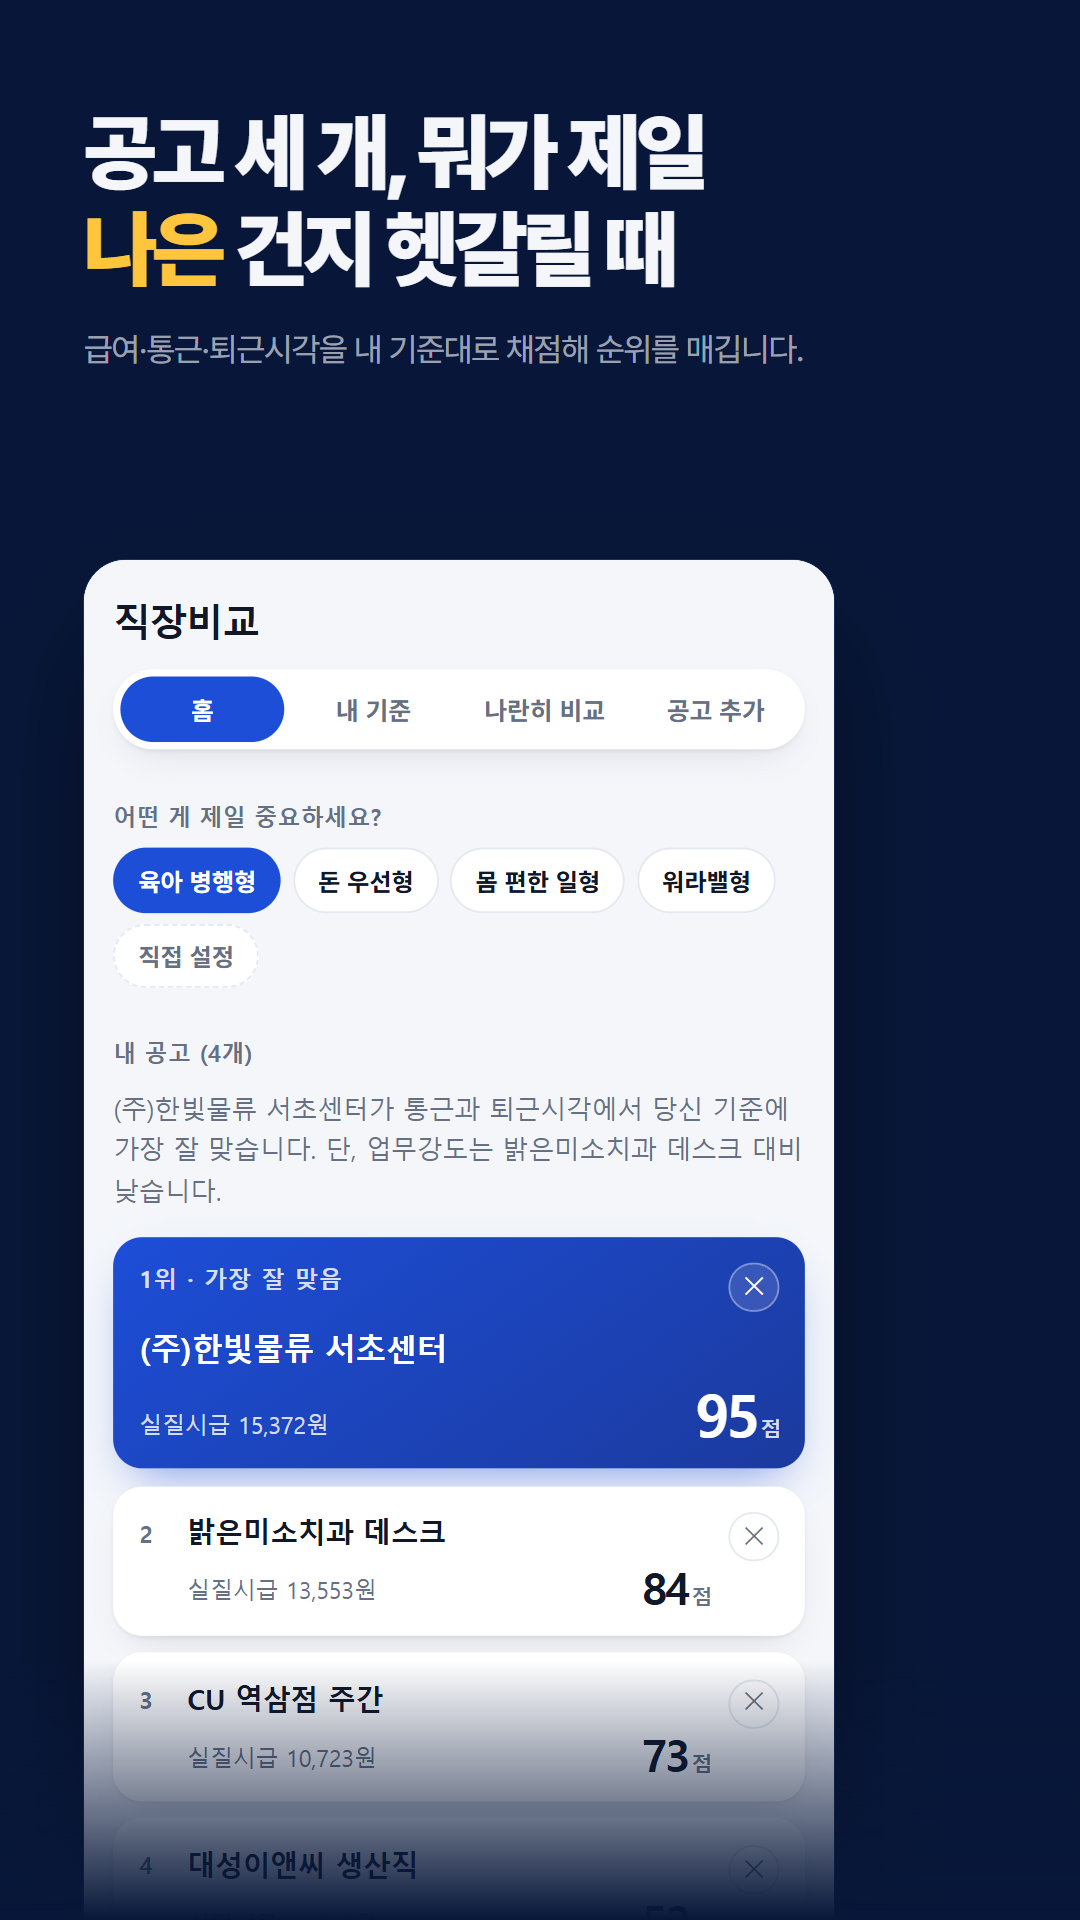
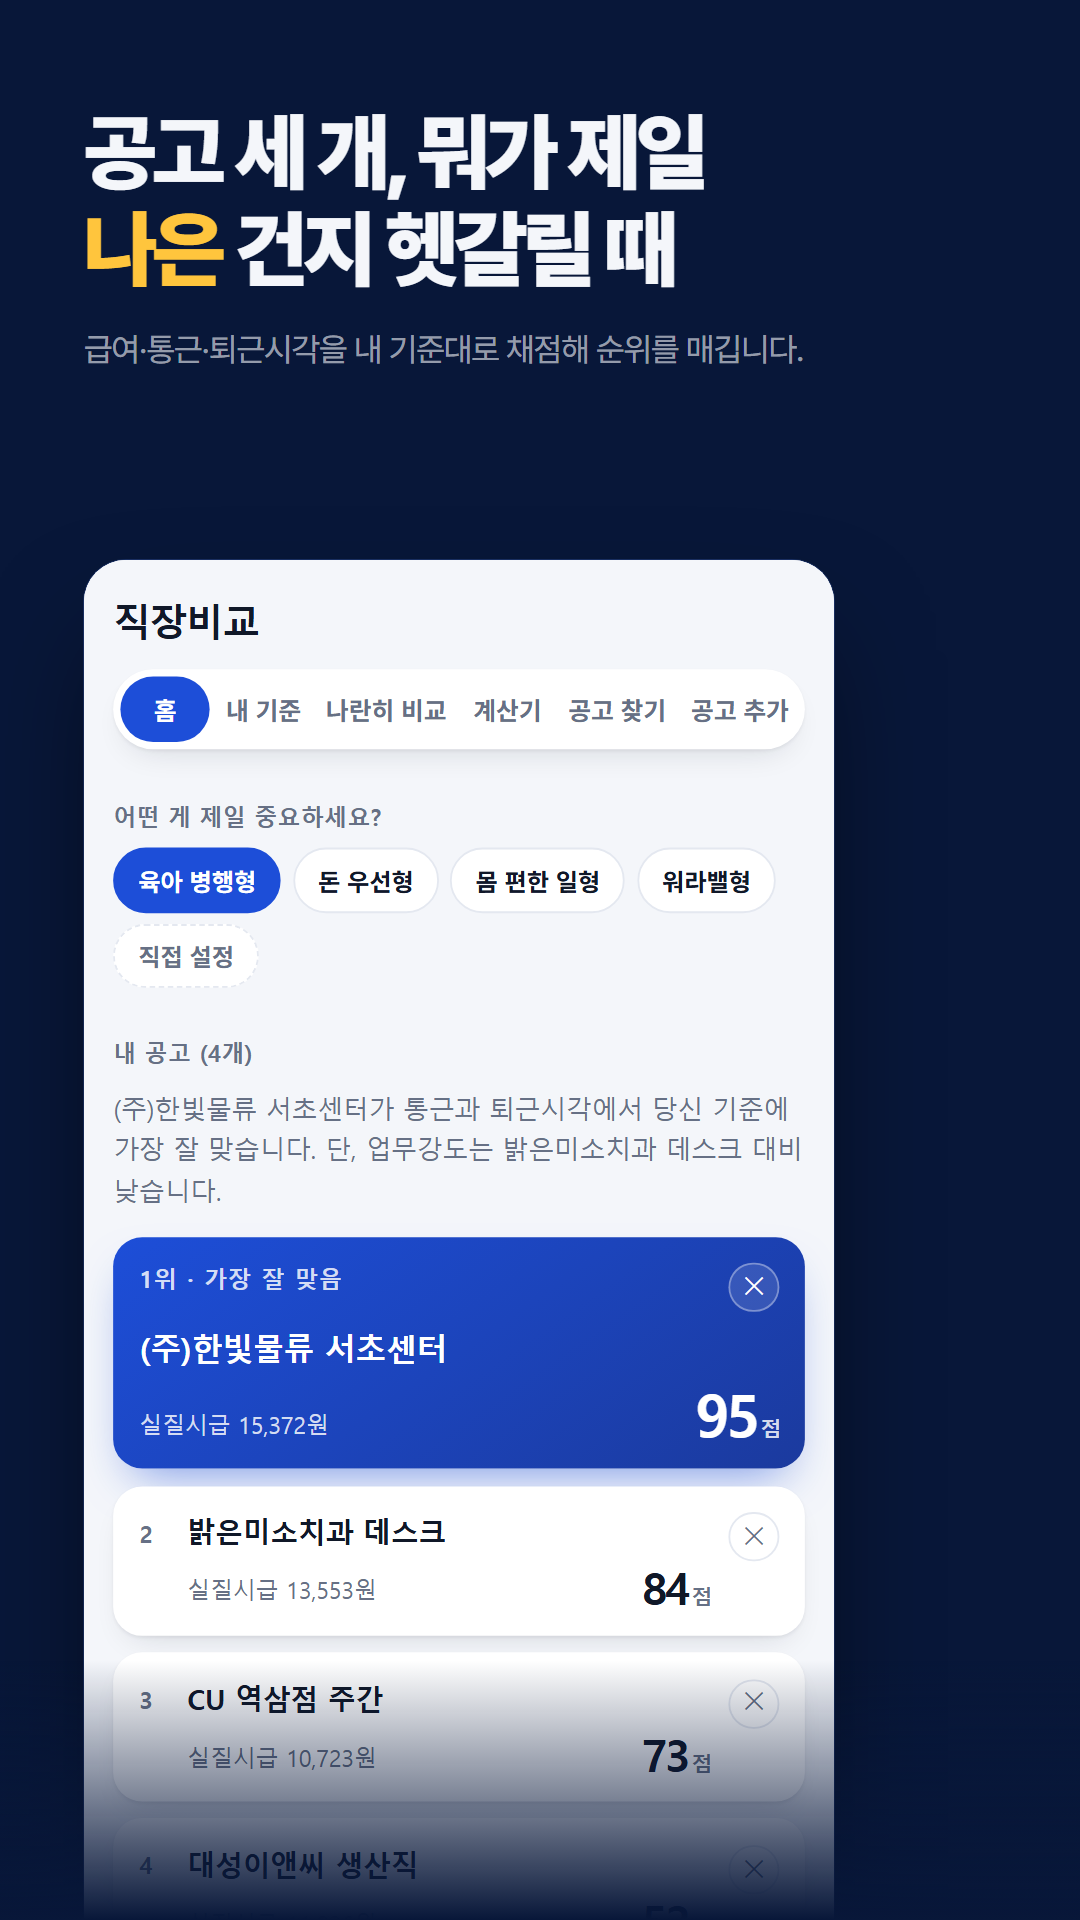
실질시급에 출퇴근 시간을 넣을지 사용자가 고르게
출퇴근 시간을 일한 시간으로 치는 건 이 앱의 관점일 뿐이라, 쓰는 사람이 끌 수 있어야 한다.
'내 기준' 화면에 체크박스 추가(기본 켜짐). 끄면 통근 시간을 빼고 계산하므로 결과가
명목시급과 같아지고, 화면 라벨도 '실질시급' → '명목시급'으로 같이 바뀐다
(숫자만 바꾸고 라벨을 두면 거짓말이 된다).

- score.js: rankJobs/computeRawScores에 includeCommute 인자 추가. 안 주면 기존대로 포함.
- app.js: state.includeCommute(localStorage 저장), wageLabel()로 홈·비교표 라벨 분기.
- score.test.js: 통근을 빼면 실질시급 = 명목시급, 인자 생략 시 기존 동작 유지까지 검증.
- 서비스워커 캐시 v22 → v23.

스토어 자산도 갱신: 스크린샷 8장 재촬영(탭 6개로 바뀐 UI 반영, 2번을 '공고 찾기'로 교체하고
템플릿 프레임 제외), 기능 그래픽 재촬영, frame.html에 feed 프레임 추가.

Changed region(s): [[0.3056, 0.3438, 0.7333, 0.375], [0.1528, 0.3438, 0.275, 0.4062]]

diff --git a/store-assets/frame.html b/store-assets/frame.html
@@ -71,24 +71,26 @@ var PARENTING = {pay:3,commute:5,endTime:5,startTime:4,days:4,intensity:3,stabil
 var NO_LIMITS = {minPay:null,maxEndTime:null,maxCommute:null,maxDays:null};
 var PASTE_TEXT = '(주)해성식품 제조 생산직\n급여 일급 100,620원\n근무요일 주5일 (월~금)\n근무시간 08:00~17:00\n서울 강서구 마곡동';
 
-// 설치 결정에 미치는 영향이 큰 순서 — 핵심가치(1) → 진입장벽 해소(2) → 차별화 인사이트(3) →
-// 개인화(4~5) → 상세비교(6) → 스마트필터(7) → 신뢰 마감(8).
+// 설치 결정에 미치는 영향이 큰 순서 — 핵심가치(1) → 공고 조달(2) → 진입장벽 해소(3) →
+// 차별화 인사이트(4) → 개인화(5) → 상세비교(6) → 스마트필터(7) → 신뢰 마감(8).
+// 2026-11-18: "공고 찾기"(2)를 넣고 템플릿 버튼 프레임을 뺐다 — 템플릿은 5번(별점 조정)과
+// 같은 메시지였고, 공고 찾기는 "내가 공고를 다 입력해야 하나"라는 설치 직전의 망설임을 없앤다.
 var FRAMES = {
   1: { head:'공고 세 개, 뭐가 제일\n<em>나은</em> 건지 헷갈릴 때',
        sub:'급여·통근·퇴근시각을 내 기준대로 채점해 순위를 매깁니다.',
        limits:NO_LIMITS, view:'home' },
-  2: { head:'공고 글 복사해서\n<em>붙여넣기</em> 한 번이면 끝',
+  2: { head:'공고를 <em>앱 안에서</em>\n찾아 바로 담기',
+       sub:'공공기관 채용공고를 지역별 마감 임박순으로. 누르면 비교 목록에 바로 들어갑니다.',
+       limits:NO_LIMITS, view:'feed' },
+  3: { head:'공고 글 복사해서\n<em>붙여넣기</em> 한 번이면 끝',
        sub:'급여·근무시간·요일을 알아서 채웁니다. 일급도 월급으로 환산해 둡니다.',
        limits:NO_LIMITS, view:'paste' },
-  3: { head:'시급·월급·연봉\n<em>실수령액</em>까지 한 번에',
+  4: { head:'시급·월급·연봉\n<em>실수령액</em>까지 한 번에',
        sub:'4대보험료와 세금 뗀 진짜 받는 돈을, 계산기 없이 앱 안에서 바로 확인하세요.',
        limits:NO_LIMITS, view:'calculator' },
-  4: { head:'중요한 건\n<em>사람마다</em> 다릅니다',
+  5: { head:'중요한 건\n<em>사람마다</em> 다릅니다',
        sub:'별점을 옮기면 순위가 그 자리에서 바뀝니다. 내 우선순위대로.',
        limits:NO_LIMITS, view:'criteria' },
-  5: { head:'버튼 하나 누르면\n순위가 <em>다시</em> 매겨짐',
-       sub:'육아 병행형·돈 우선형 등 4가지 기본값 중 하나만 눌러도 충분합니다.',
-       limits:NO_LIMITS, view:'home-templates' },
   6: { head:'궁금했던 걸\n<em>한 표</em>에 나란히',
        sub:'월급·실질시급·통근·업무강도·주말근무까지 눈으로 직접 비교하세요.',
        limits:NO_LIMITS, view:'compare' },
@@ -109,6 +111,7 @@ document.getElementById('sub').textContent = f.sub;
 localStorage.setItem('jobscale.jobs', JSON.stringify(JOBS));
 localStorage.setItem('jobscale.weights', JSON.stringify(PARENTING));
 localStorage.setItem('jobscale.limits', JSON.stringify(f.limits));
+localStorage.setItem('jobscale.feedSido', JSON.stringify('007008')); // 경기 — 마감일이 섞여 D-day 칩이 다양하게 보인다
 localStorage.removeItem('jobscale.targets');
 
 var iframe = document.getElementById('app');
@@ -132,17 +135,16 @@ iframe.addEventListener('load', function () {
   if (f.view === 'calculator') {
     doc.querySelector('[data-nav="calculator"]').click();
     doc.getElementById('calc-amount').value = '300';
-    ['calc-hoursPerDay', 'calc-daysPerWeek', 'calc-dependents'].forEach(function (id) {
+    ['calc-hoursPerDay', 'calc-daysPerWeek', 'calc-dependents',
+     'calc-otHours', 'calc-holHoursPerDay', 'calc-holDays', 'calc-taxFree', 'calc-type'].forEach(function (id) {
       var input = doc.getElementById(id);
       if (input) input.closest('.field-row').style.display = 'none';
     });
+    hide(doc, '#view-calculator > h2'); hide(doc, '.topbar h1');
+    hide(doc, '#view-calculator .hint'); // 하단 고지문은 앱 안에 그대로 있다 — 잘린 채 보이면 지저분하므로 뺀다
     doc.getElementById('calc-submit-btn').click();
     var resultEl = doc.getElementById('calc-result');
-    if (resultEl) win.scrollTo(0, Math.max(0, resultEl.offsetTop - 40));
-  }
-  // 템플릿 원터치: 크롭 대신 실제로 "돈 우선형" 버튼을 눌러 순위가 바뀐 결과를 그대로 보여준다.
-  if (f.view === 'home-templates') {
-    doc.querySelector('[data-template="money"]').click();
+    if (resultEl) win.scrollTo(0, Math.max(0, resultEl.offsetTop - 230)); // 입력칸 라벨까지 보이게
   }
   // 프라이버시: 백업/공유 버튼과 방침 링크가 보이는 하단까지 스크롤.
   // 신뢰 마감: 1위 카드는 남겨 제품감을 유지하면서, 백업/공유 버튼과 방침 링크를 바로 그 아래로 당겨온다.
@@ -151,6 +153,21 @@ iframe.addEventListener('load', function () {
     hide(doc, '#job-count-label'); hide(doc, '#explain-text');
     doc.querySelectorAll('#job-list .job-card').forEach(function (el, i) { if (i > 0) el.style.display = 'none'; });
     doc.querySelector('.secondary-row').style.marginTop = '32px';
+  }
+
+  // 공고 찾기는 data/jobs.json을 받아와야 목록이 생긴다 — 렌더될 때까지 기다렸다가 찍는다.
+  if (f.view === 'feed') {
+    doc.querySelector('[data-nav="feed"]').click();
+    // 설명 문구는 헤드라인이 이미 하는 말이다 — 접어서 공고 카드를 세 장까지 올린다.
+    hide(doc, '#view-feed > h2'); hide(doc, '#view-feed > p.hint');
+    var tries = 0;
+    var waitFeed = setInterval(function () {
+      if (doc.querySelector('.feed-card') || ++tries > 60) {
+        clearInterval(waitFeed);
+        setTimeout(function () { window.__frameReady = true; }, 260);
+      }
+    }, 50);
+    return;
   }
 
   setTimeout(function () { window.__frameReady = true; }, 260);

diff --git a/docs/js/app.js b/docs/js/app.js
@@ -10,7 +10,8 @@
     weights: 'jobscale.weights',
     limits: 'jobscale.limits',
     targets: 'jobscale.targets',
-    feedSido: 'jobscale.feedSido'
+    feedSido: 'jobscale.feedSido',
+    includeCommute: 'jobscale.includeCommute'
   };
 
   var TEMPLATES = {
@@ -57,6 +58,8 @@
     targets: load(STORAGE_KEYS.targets, JobScore.DEFAULT_TARGETS),
     editingJobId: null,
     viewOnly: false,
+    // 출퇴근 시간을 일한 시간으로 칠지 — 이 앱의 기본 관점은 '친다'지만 끌 수 있다.
+    includeCommute: load(STORAGE_KEYS.includeCommute, true) !== false,
     feedSido: load(STORAGE_KEYS.feedSido, null), // 마지막에 고른 지역을 기억한다
     feed: null,      // data/jobs.json 내용 (한 번만 받아서 재사용)
     feedState: 'idle' // idle | loading | error
@@ -145,9 +148,14 @@
       '<span class="needs-check-note">' + escapeHtml(notes) + '</span>';
   }
 
+  // 통근을 빼면 계산 결과가 곧 명목시급이다 — 숫자만 바꾸고 라벨을 두면 거짓말이 된다.
+  function wageLabel() {
+    return state.includeCommute ? t('wage.realLabel') : t('wage.nominalLabel');
+  }
+
   function renderHome() {
     updateTemplateButtons();
-    var result = JobScore.rankJobs(state.jobs, state.weights, state.targets, state.limits);
+    var result = JobScore.rankJobs(state.jobs, state.weights, state.targets, state.limits, state.includeCommute);
     var listEl = document.getElementById('job-list');
     var explainEl = document.getElementById('explain-text');
     document.getElementById('job-count-label').textContent = t('home.myJobs', { count: state.jobs.length });
@@ -180,7 +188,7 @@
           '<span class="job-name">' + escapeHtml(r.job.name) + '</span>' +
           renderNeedsCheck(r.job) +
           '<div class="job-foot">' +
-            '<span class="job-wage">' + t('wage.realLabel') + ' ' + Math.round(r.raw.realWageWon).toLocaleString() + t('wage.won') + '</span>' +
+            '<span class="job-wage">' + wageLabel() + ' ' + Math.round(r.raw.realWageWon).toLocaleString() + t('wage.won') + '</span>' +
             '<span class="job-score">' + Math.round(r.total) + '<i>' + t('score.suffix') + '</i></span>' +
           '</div>' +
           sourceLink +
@@ -312,7 +320,7 @@
   function renderCriteriaLiveRank() {
     var el = document.getElementById('criteria-live-rank');
     if (!el) return;
-    var result = JobScore.rankJobs(state.jobs, state.weights, state.targets, state.limits);
+    var result = JobScore.rankJobs(state.jobs, state.weights, state.targets, state.limits, state.includeCommute);
     if (result.ranked.length === 0) { el.innerHTML = ''; return; }
     el.innerHTML = result.ranked.map(function (r, i) {
       return '<div class="live-rank-row"><span>' + (i + 1) + '. ' + escapeHtml(r.job.name) +
@@ -573,7 +581,7 @@
 
   // ---------- 나란히 비교 (P5) ----------
   function renderCompare() {
-    var result = JobScore.rankJobs(state.jobs, state.weights, state.targets, state.limits);
+    var result = JobScore.rankJobs(state.jobs, state.weights, state.targets, state.limits, state.includeCommute);
     var el = document.getElementById('compare-table-wrap');
     if (result.ranked.length === 0) {
       el.innerHTML = '<p class="empty">' + t('compare.empty') + '</p>';
@@ -581,7 +589,7 @@
     }
     var rows = [
       { label: t('compare.pay'), get: function (r) { return Math.round(r.raw.monthlyPayWon / 10000) + t('unit.manwon'); } },
-      { label: t('compare.realWage'), get: function (r) { return Math.round(r.raw.realWageWon).toLocaleString() + t('wage.won'); } },
+      { label: wageLabel(), get: function (r) { return Math.round(r.raw.realWageWon).toLocaleString() + t('wage.won'); } },
       { label: t('compare.workTime'), get: function (r) { return r.job.start + '~' + r.job.end; } },
       { label: t('compare.commute'), get: function (r) { return r.job.commuteMin + t('unit.min'); } },
       { label: t('compare.days'), get: function (r) { return r.job.daysPerWeek + t('unit.day'); } },
@@ -769,6 +777,13 @@
     document.getElementById('jf-delete').addEventListener('click', deleteJob);
     document.getElementById('jf-payType').addEventListener('change', updatePayUnitLabel);
     document.getElementById('jf-paste-apply').addEventListener('click', applyPastedText);
+    var commuteOpt = document.getElementById('opt-includeCommute');
+    commuteOpt.checked = state.includeCommute;
+    commuteOpt.addEventListener('change', function () {
+      state.includeCommute = commuteOpt.checked;
+      persist(STORAGE_KEYS.includeCommute, state.includeCommute);
+      renderCriteria();
+    });
     document.getElementById('feed-sido').addEventListener('change', function (e) {
       state.feedSido = e.target.value;
       // 지역 선택은 내 비교 데이터가 아니라 화면 설정이다 — 공유 링크 열람 중에도

diff --git a/docs/js/score.js b/docs/js/score.js
@@ -141,7 +141,9 @@
     return { survivors: survivors, rejected: rejected };
   }
 
-  function computeRawScores(job, targets) {
+  // includeCommute=false면 통근 시간을 시급 계산에서 빼므로 실질시급 = 명목시급이 된다.
+  // (출퇴근 시간을 근무로 치는 건 이 앱의 관점일 뿐, 쓰는 사람이 고를 수 있어야 한다)
+  function computeRawScores(job, targets, includeCommute) {
     targets = targets || DEFAULT_TARGETS;
     var workHours = monthlyWorkHours(job.start, job.end, job.breakMin, job.daysPerWeek);
     var commuteHours = monthlyCommuteHours(job.commuteMin, job.daysPerWeek);
@@ -151,7 +153,7 @@
       commuteHours: commuteHours,
       monthlyPayWon: payWon,
       nominalWageWon: nominalWageWon(payWon, workHours),
-      realWageWon: realWageWon(payWon, workHours, commuteHours),
+      realWageWon: realWageWon(payWon, workHours, includeCommute === false ? 0 : commuteHours),
       commute: commuteScore(job.commuteMin, targets.commuteTarget),
       endTime: endTimeScore(job.end, targets.endTimeTarget),
       startTime: startTimeScore(job.start, targets.startTimeTarget),
@@ -180,7 +182,7 @@
    * 반환: { ranked: [{job, raw, total}], rejected: [{job, reasons}], error }
    * error: 'NO_JOBS' | 'ALL_REJECTED' | 'NO_WEIGHTS' | null
    */
-  function rankJobs(jobs, weights, targets, limits) {
+  function rankJobs(jobs, weights, targets, limits, includeCommute) {
     if (!jobs || jobs.length === 0) return { ranked: [], rejected: [], error: 'NO_JOBS' };
 
     var filtered = applyHardFilters(jobs, limits);
@@ -189,7 +191,7 @@
     }
 
     var raws = filtered.survivors.map(function (job) {
-      return { job: job, raw: computeRawScores(job, targets) };
+      return { job: job, raw: computeRawScores(job, targets, includeCommute) };
     });
     var realWages = raws.map(function (r) { return r.raw.realWageWon; });
     var payScores = payScoreBand(realWages);

diff --git a/docs/js/score.test.js b/docs/js/score.test.js
@@ -200,4 +200,19 @@ var weightsEqual = { pay: 1, commute: 1, endTime: 1, startTime: 1, days: 1, inte
   console.log('OK 12: 일급(daily) 월급 환산');
 })();
 
+(function testIncludeCommuteToggle() {
+  // 통근을 빼면 실질시급 = 명목시급이 되어야 한다(그게 '통근 미포함'의 정의).
+  var job = { id: 'c', name: '통근공고', pay: { amount: 295, unit: 'monthly' },
+    start: '09:00', end: '18:00', daysPerWeek: 5, commuteMin: 60, breakMin: 60,
+    intensity: 'normal', employmentType: 'regular', insurance: true };
+  var withCommute = S.rankJobs([job], weightsEqual, S.DEFAULT_TARGETS, {}, true).ranked[0].raw;
+  var without = S.rankJobs([job], weightsEqual, S.DEFAULT_TARGETS, {}, false).ranked[0].raw;
+  assert.ok(withCommute.realWageWon < without.realWageWon, '통근을 넣으면 시급이 낮아져야 한다');
+  approx(without.realWageWon, without.nominalWageWon, 0.01);
+  // 인자를 안 주면(기존 호출부) 예전처럼 통근 포함으로 동작해야 한다
+  var legacy = S.rankJobs([job], weightsEqual, S.DEFAULT_TARGETS, {}).ranked[0].raw;
+  approx(legacy.realWageWon, withCommute.realWageWon, 0.01);
+  console.log('OK 13: 통근 포함/미포함 토글');
+})();
+
 console.log('\n모든 테스트 통과.');

diff --git a/docs/js/strings.ko.js b/docs/js/strings.ko.js
@@ -205,6 +205,11 @@ var STRINGS_KO = {
   'share.viewOnly': '공유받은 결과입니다 (읽기 전용)',
   'share.overwriteConfirm': '지금 수정하면 원래 내 데이터가 이 공유 결과로 덮어써집니다. 계속할까요?',
 
+  'criteria.includeCommute': '출퇴근 시간도 일한 시간으로 계산',
+  'criteria.includeCommute.hint': '켜면 왕복 통근 시간까지 더해 시급을 나눕니다(실질시급). 끄면 근무시간만으로 계산합니다(명목시급). 통근이 긴 공고를 어떻게 볼지는 사람마다 다르니 직접 고르세요.',
+  'wage.realShort': '실질시급',
+  'wage.nominalShort': '명목시급',
+
   'feed.title': '공공기관 채용공고 찾기',
   'feed.intro': '지방공기업·출자출연기관 공고를 마감 임박순으로 보여줍니다. 하루 한 번 갱신됩니다. (알바·시급 공고는 여기 없습니다)',
   'feed.region': '지역',

diff --git a/docs/css/style.css b/docs/css/style.css
@@ -361,3 +361,9 @@ footer { max-width: 640px; margin: 2rem auto 0; padding: 0 1rem; text-align: cen
 }
 .needs-check-note { display: block; font-size: 0.72rem; color: var(--muted); margin-top: 0.2rem; line-height: 1.35; }
 .job-card.hero .needs-check-note { color: var(--hero-ink-weak); }
+
+/* 통근 포함 여부 — 중요도 슬라이더보다 위에 있지만 더 조용해야 한다(한 번 정하고 마는 설정). */
+.option-row { margin: 0.2rem 0 1rem; }
+.check-label { display: flex; align-items: center; gap: 0.45rem; font-size: 0.9rem; font-weight: 600; cursor: pointer; }
+.check-label input { width: 1.05rem; height: 1.05rem; accent-color: var(--accent); }
+.option-row .hint { padding-top: 0.25rem; font-size: 0.78rem; line-height: 1.45; }

diff --git a/docs/index.html b/docs/index.html
@@ -59,6 +59,15 @@
 
     <div id="criteria-live-rank" class="live-rank"></div>
 
+    <!-- 출퇴근 시간을 일한 시간으로 칠지는 사람마다 생각이 다르다 — 고를 수 있게 둔다. -->
+    <div class="option-row">
+      <label class="check-label">
+        <input type="checkbox" id="opt-includeCommute" checked>
+        <span data-i18n="criteria.includeCommute"></span>
+      </label>
+      <p class="hint" data-i18n="criteria.includeCommute.hint"></p>
+    </div>
+
     <h3 data-i18n="criteria.weightHeader"></h3>
     <div class="weight-list">
       <!-- 항목당: 라벨 + 네이티브 range 슬라이더(0~5) + 별 표시. 라이브러리 없음. -->

diff --git a/docs/sw.js b/docs/sw.js
@@ -2,7 +2,7 @@
  * 최소 서비스워커 — 앱 셸 캐싱, 오프라인 동작용.
  * 네트워크 우선 + 캐시 폴백. 온라인이면 항상 최신, 오프라인이면 마지막 캐시본.
  */
-var CACHE_NAME = 'jobscale-v22';
+var CACHE_NAME = 'jobscale-v23';
 var APP_SHELL = [
   './',
   './index.html',
